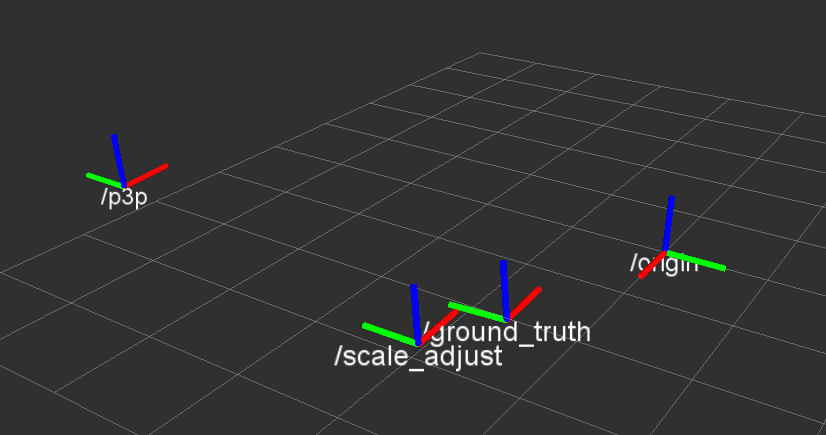
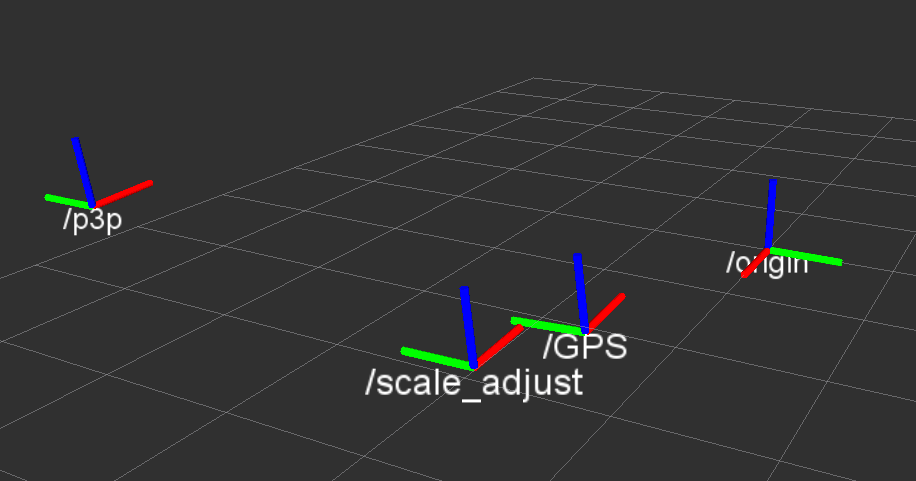
chapter 6 corrects, scale etc

diff --git a/chapters/06_omni_loop_close.tex b/chapters/06_omni_loop_close.tex
@@ -72,13 +72,28 @@ Points with metric scale are calculated using stereo matching.  These points are
 \end{figure}
 
 
-%TODO visualization of scale offsets
-
-%TODO visualization of 180 deg pose: slides from last intern meeting
-
 \subsubsection{Robust scale estimation}
 
-Having determined a number of scale offsets, a single offset needs to be determined.  It is likely that outliers exist in the data and these need to be considered.  A potential approach would be to apply RANSAC, choosing a single point and scaling the values and comparing them to their correspondences.  A simpler and less computationally expensive method would be to calculate a robust mean.  A robust mean is calculated in this case using some dude's robust mean algorithm (citation).
+Having determined a number of scale offsets, a single offset needs to be determined.  It is likely that outliers exist in the data and these need to be considered.  In addition to outliers, it is also important to consider the metric accuracy of each stereo point.  As points occur further away from the camera, the corresponding disparity decreases.  For low values of disparity, the resolution in depth decreases, and therefore the accuracy of scale estimation from this point is diminished. Fig. \ref{fig:scale_bar_graph} illustrates the relationship between scale offset accuracy and associated depth values.
+
+In order to compensate for outliers, first a robust mean is calculated using some dude's robust mean algorithm.  Outliers can then be identified by comparing them with the robust mean and removed from the list.
+
+To deal with the depth uncertainty of points, a weighted average is calculated as follows:
+
+\begin{equation}
+\centering
+s_{mean} = \dfrac{\displaystyle\sum\limits_{i=0}^N \dfrac{s_i}{z_i^2}}{\displaystyle\sum\limits_{i=0}^N \dfrac{1}{z_i^2}}}
+\end{equation}
+
+$s_i$ denotes a single scale offset, and $z_i$ is the corresponding depth value as calculated by stereo matching.  The idea behind this calculation is to provide weights inversely proportional to the depth of the point, such that distant points are heavily penalised.  Before applying this weighting strategy, the scale calculation was often over estimated and sometimes unstable.  This weighted mean function provided much more stable and accurate scale offsets.
+
+
+\begin{figure}[H]
+  \centering
+    \includegraphics[width=1.0\textwidth]{chapters/images/scale_offset_bar_graph}\\
+  \caption{Scale offsets and corresponding depth values.  The scale offsets are blue with the units on the left and the depth values are orange with the unit in meters on the right. In this example the correct scale offset is about 6.  From the graph it is clear that scale offsets far off this offset are attributed with higher depth values.}
+  \label{fig:scale_bar_graph}
+\end{figure}
 
 %TODO robust mean citation
 
@@ -119,6 +134,15 @@ In practice the p3p turns out to be not as accurate as the scale adjustment algo
 
 The scale adjustment algorithm uses all the matches between two omni poses to calculate a transform.  In later evaluations this is shown to be typically well over 100 inliers for pose estimation.  This results in a highly accurate transformation.  The rotation part of the transform does not need to be scaled and can be used directly.  As stated above, only one point is required to determine the scale offset so scale adjustment should be accurate even with few matches.
 
+\begin{figure}[H]
+  \centering
+    \includegraphics[width=1.0\textwidth]{chapters/images/scale_vs_p3p_1}\\
+  \caption{An example comparing pose estimation from p3p and scale adjustment algorithms}
+  \label{fig:p3p_flowchart}
+\end{figure}
+
+%TODO: change ground_truth to GPS
+
 Finally another advantage of the scale adjustment algorithm is the way in which the data from both frames is fused.  For both algorithms, they can be run twice using first one keyframe, and then the other. (see fig. \ref{fig:scale_adjust_flowchart} and fig. \ref{fig:p3p_flowchart})  Whilst the scale adjustment algorithm outputs two offset vectors that can easily be combined to determine a single robust offset value, the p3p implementation generates two separate poses that need to be fused together somehow.  They could be averaged or both added to the graph weighted on the number of inliers. Nevertheless incorporating all available data into calculating one transform should achieve better results than calculating two not as accurate poses and averaging them together.
 
 \begin{figure}[H]
@@ -141,24 +165,24 @@ Section \ref{sec:calc_loop_edge} describes returning a single SE(3) edge constra
 
 Given that no data association will be done between multiple loop closures, there is little advantage of calculating the constraint using bundle adjustment.  Calculating a keyframe pose-pose edge and estimating the information matrix closely approximates the constraint and is also far more computationally efficient.  Finally, implementing the bundle adjustment, accounting for the double window approach would also be considerably more effort than SE(3) edges.
 
-%\subsection{Adding the pose to the inner window}
+\subsection{Adding the pose to the inner window}
 
-%The place recognition module will return potential loop closures for the most recently added keyframe.  If a loop closure is successful, this means it will connect to a keyframe in the inner window.  However adding a single edge to the inner window will have little affect, as there will be too many landmark observation constraints opposing this edge.  If the stiffness of the new constraint is set high enough, the particular keyframe will be pulled towards the direction of the loop closure, but all the other keyframes will remain in place. (fig. \ref{fig:graph_fail})
+The place recognition module will return potential loop closures for the most recently added keyframe.  If a loop closure is successful, this means it will connect to a keyframe in the inner window.  However adding a single edge to the inner window will have little affect, as there will be too many landmark observation constraints opposing this edge.  Typically what happens is that the particular keyframe will be pulled in the direction of the loop closure, but all the other keyframes will remain in place. (fig. \ref{fig:graph_fail})
 
-%\begin{figure}[H]
-%  \centering
-%    \includegraphics[width=0.49\textwidth]{chapters/images/before_opt}
-%    \includegraphics[width=0.49\textwidth]{chapters/images/after_opt}
-%  \caption{Adding a SE(3) edge to the inner window.  Black dots denote landmarks.  The green line is the SE(3) loop closure edge}
-%  \label{fig:graph_fail}
-%\end{figure}
+\begin{figure}[H]
+  \centering
+    \includegraphics[width=0.49\textwidth]{chapters/images/before_opt}
+    \includegraphics[width=0.49\textwidth]{chapters/images/after_opt}
+  \caption{Adding a SE(3) edge to the inner window.  Black dots denote landmarks.  The green line is the SE(3) loop closure edge}
+  \label{fig:graph_fail}
+\end{figure}
 
-%In order to deal with this problem, after adding a loop closure edge, the graph is 'reinitialised' to a new configuration using SE(3) edge only optimization.  The entire inner window is marginalised to SE(3) edges, as they would be when leaving the inner window.  This is essentially the same as changing the inner window size to 1.  Then optimization is performed, this time with the loop closure edge having a more equal weighting to the rest of the constraints.  The graph error is then spread evenly throughout the graph, and the current pose is moved to the loop closure keyframe.  Having completed this optimization, the inner window is restored and the graph retains its structure.
+In order to deal with this problem, after adding a loop closure edge, the graph is 'reinitialised' to a new configuration using SE(3) edge only optimization.  The entire inner window is marginalised to SE(3) edges, as they would be when leaving the inner window.  This is essentially the same as changing the inner window size to 1.  Then optimization is performed, this time with the loop closure edge having a more equal weighting to the rest of the constraints.  The graph error is then spread evenly throughout the graph, and the current pose is moved to the loop closure keyframe.  Having completed this optimization, the inner window is restored and the graph retains its structure.
 
-%\begin{figure}[H]
-%  \centering
-%    \includegraphics[width=0.45\textwidth]{chapters/images/before_opt_good}
-%    \includegraphics[width=0.45\textwidth]{chapters/images/after_opt_good}
-%  \caption{Before and after optimization using pose only constraints}
-%  \label{fig:graph_fail}
-%\end{figure}
+\begin{figure}[H]
+  \centering
+    \includegraphics[width=0.45\textwidth]{chapters/images/before_opt_good}
+    \includegraphics[width=0.45\textwidth]{chapters/images/after_opt_good}
+  \caption{Before and after optimization using pose only constraints}
+  \label{fig:graph_fail}
+\end{figure}
